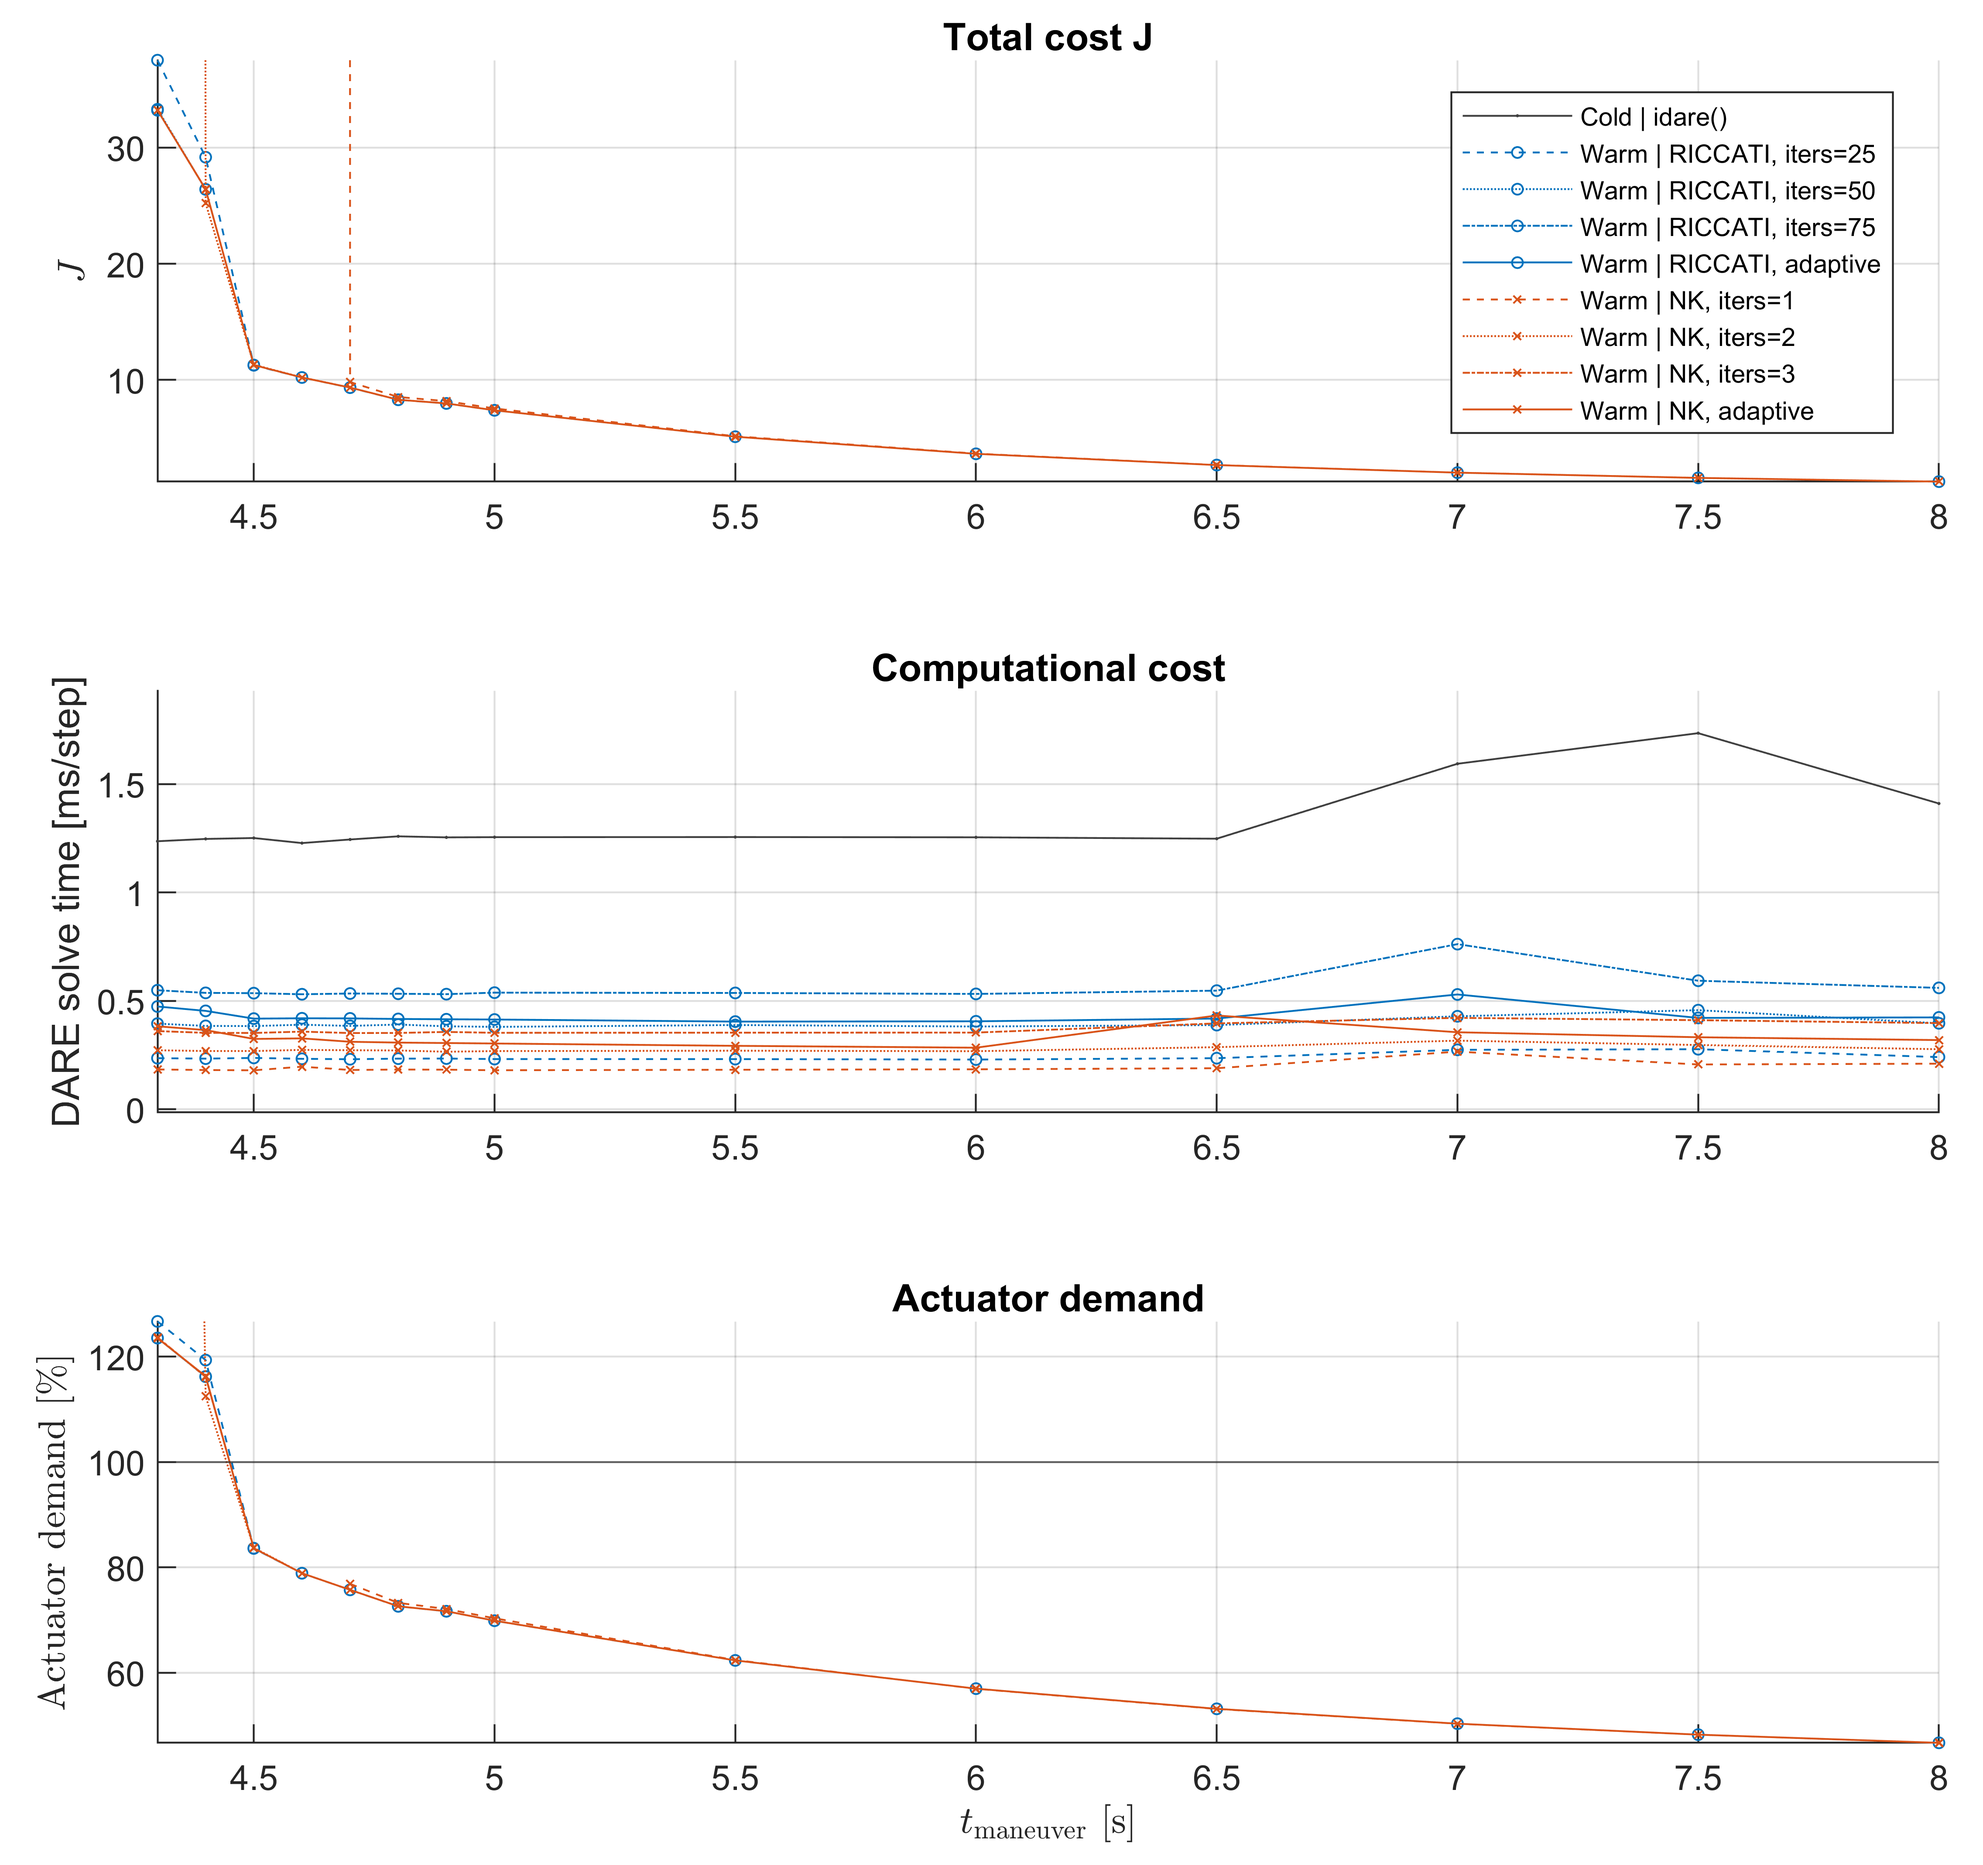
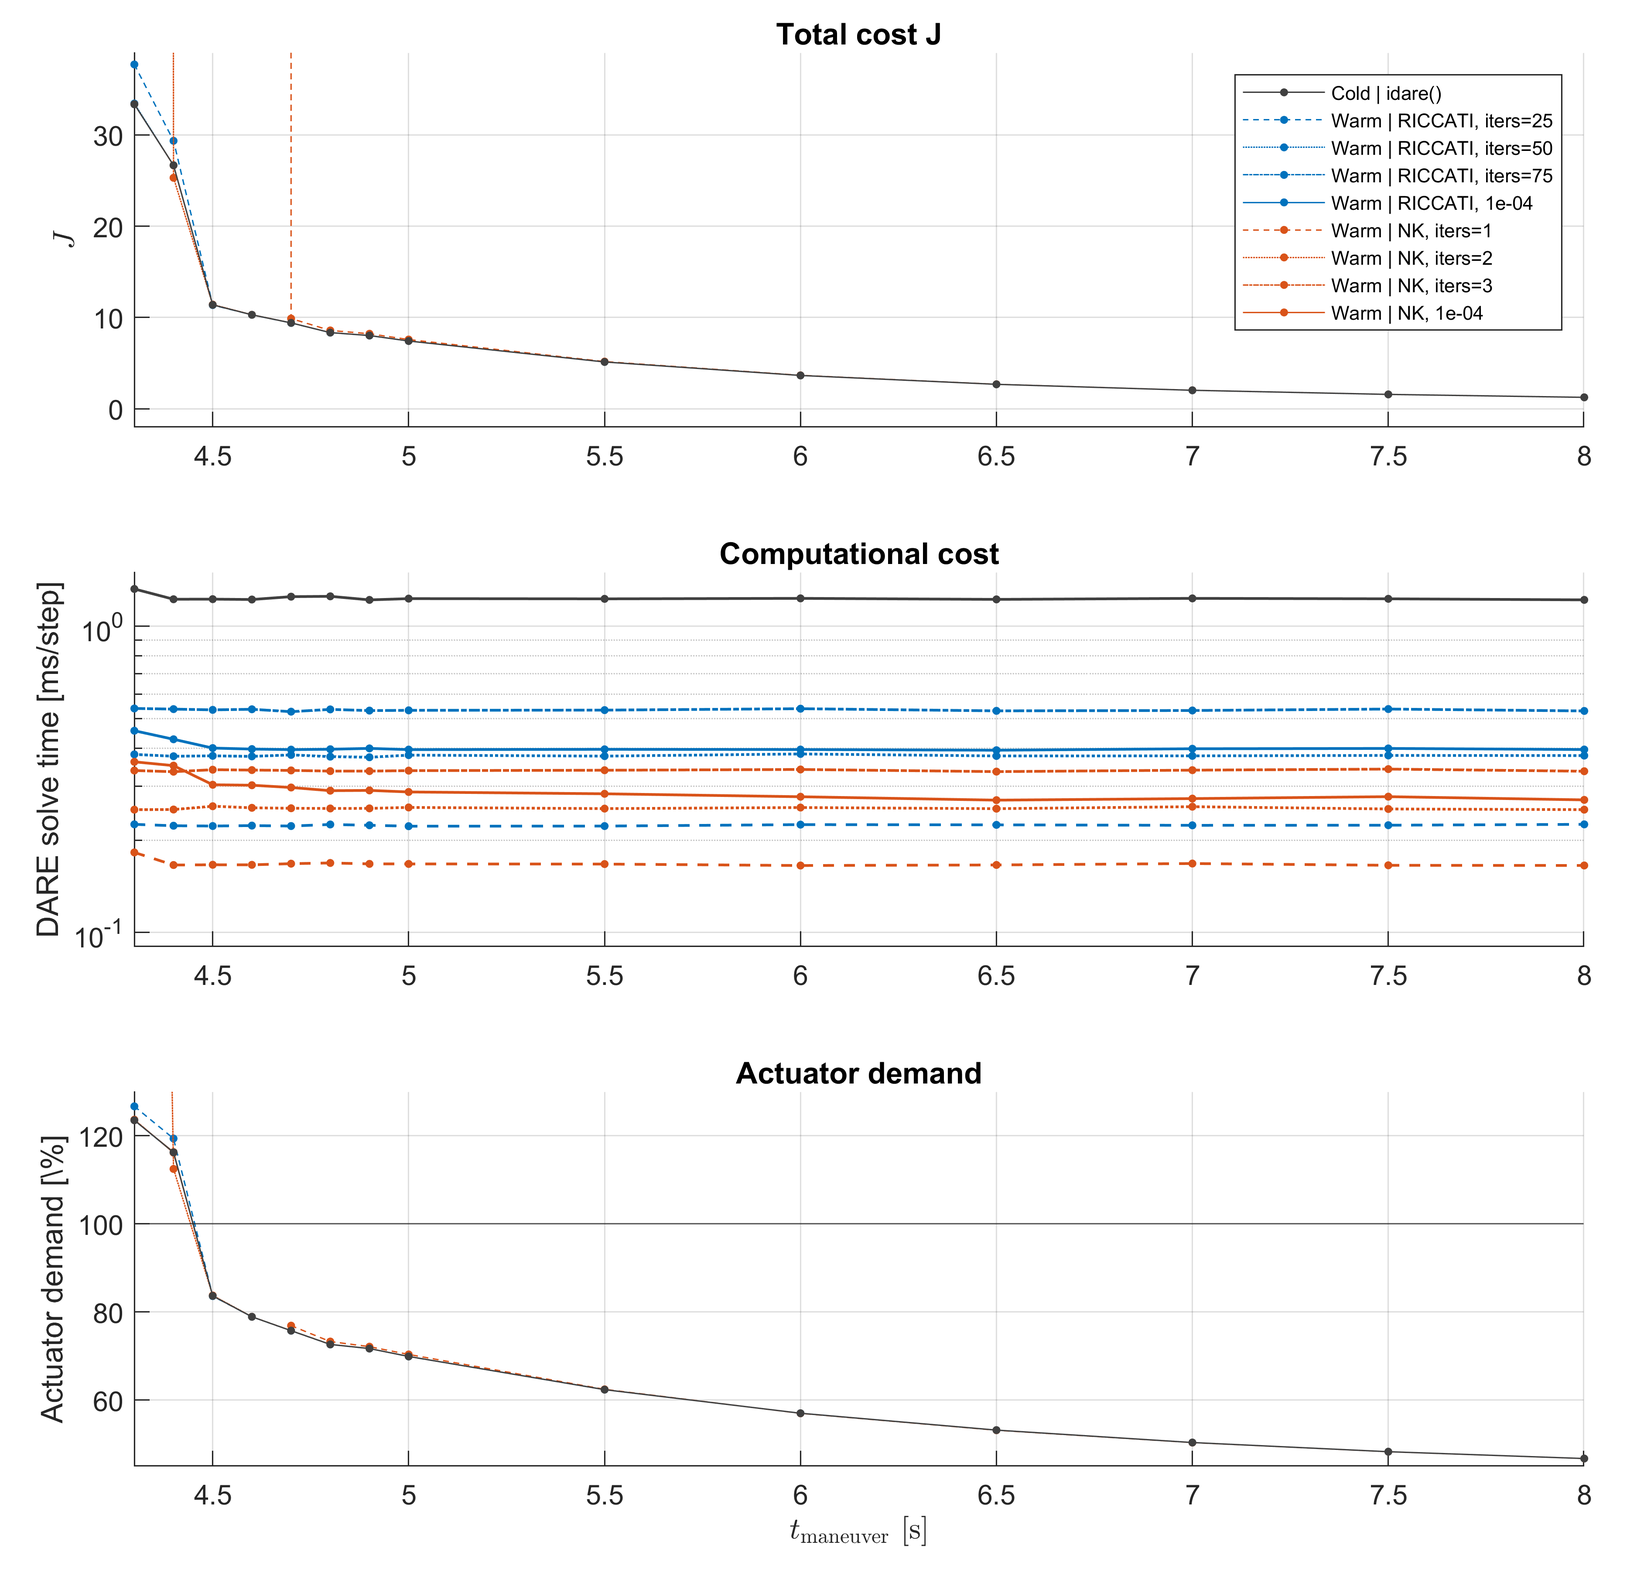
Updates to eval01, Section 2
- Rerun for less noisy timing numbers (run twice to avoid JIT compilation time, trimmean for the genuine noise spikes). All costs/other results were identical.
- Fix presentation of Figure 2
- Riccati early-break timings changed (convergence checked every 25 iters, for the most direct timing comparison - not in the original)

diff --git a/docs/eval01/README.md b/docs/eval01/README.md
@@ -7,11 +7,11 @@ This controller requires solving the DARE at each timestep – done via warm-sta
 
 ## Warm-started DARE solves: TLDR version
 
-A SDRE controller solves a discrete algebraic Riccati equation (DARE) at every control step:
+A SDRE controller solves a discrete algebraic Riccati equation (DARE)
 
 $$ P = A^{\top} P A - A^{\top} P B (R + B^{\top} P B)^{-1} B^{\top} P A + Q, \qquad K = (R + B^{\top} P B)^{-1} B^{\top} P A $$
 
-and the SDC matrices $`(A,B)`$ change with state, so the feedback gain and cost-to-go matrices must be recomputed continuously.
+at every control step: the SDC matrices $`(A,B)`$ change with state, so the feedback gain and cost-to-go matrices must be recomputed continuously.
 
 This per-step DARE is solved by warm-started Newton–Kleinman iteration; because consecutive SDC models differ only slightly along a trajectory, warm started solves via NK iteration reproduce a from-scratch `idare` solution at a fraction of the cost. Relaxing the solve tolerance (DARE residual) to $10^{-4}$ — roughly seven orders of magnitude short of a completed solve — further shaves off the compute.
 
@@ -19,7 +19,7 @@ Performance is verified against the `idare` baseline across the full flight enve
 
 NK iteration has one critical weakness however: the warm start seed $K_0$ must yield a stable closed loop with the *next* step's $(A,B)$. Under practical circumstances, not a problem; under fixed-iteration schemes with aggressive trajectories and slow loop rates, this failure mode can't be ignored. A Schur-stability check, combined with a cold solve or Riccati fallback, is necessitated here.
 
-The cold solve fallback is retained in general – though if it's actually triggering, that indicates something amiss in the configuration and is worth addressing before deployment: try the default solver options first.
+The cold solve fallback is retained in general – though if it's actually triggering, that indicates something amiss in the configuration, worth addressing before deployment: try the default solver options first.
 
 
 **Section summaries:**
@@ -157,22 +157,22 @@ This target, $\mathrm{dare\_residual}$ $\leq 10^{-4}$, is thus generally used as
 In Figure 2, the actuator demand panel (bottom) is the regime map: demand crossing 100% indicates where the stressed regime begins. In the stressed regime, $t_{man} = 4.3–4.4$ s, actuators are saturating significantly (the maneuver becomes infeasible below 4.3 s) and here the warm-started DARE solver is stressed most.
 
 - In the benign regime, every solver variant – including NK with a single iteration – matches the cold `idare` cost exactly. The warm start is good enough that almost any amount of polishing suffices.
-- In the stressed regime, the under-budgeted NK variants (1–2 iterations) detonate (that is, the cost explodes, corresponding to the hexacopter losing closed-loop stability) – the pure-vertical spikes in the cost panel. This is the hard failure mode analysed later on. NK with 3 iterations and both 'adaptive' variants (early breaking once DARE residual is below threshold) complete every run at baseline cost.
-- Solve time is where the variants actually separate: NK adaptive sits around 0.3 ms/step against ~1.25 ms for cold `idare`, with the Riccati variants in between. For these variants, the cost panel says suboptimal DARE accuracy is largely free, with the under-budgeted solvers completing the maneuver practically just as well despite early termination (often indistinguishable $\Delta J$, and surviving the full operating envelope up to infeasibility).
+- In the stressed regime, the under-budgeted NK variants (1–2 iterations) detonate (that is, the cost explodes, corresponding to the hexacopter losing closed-loop stability) – the pure-vertical spikes in the cost panel. This is the hard failure mode analysed later on. NK with 3 iterations, along with its early-break variant, completes every run at baseline cost.
+- Solve time is where the variants actually separate: early-break NK sits around 0.3 ms/step against ~1.25 ms for cold `idare`, with the Riccati variants in between. For these variants, the cost panel says suboptimal DARE accuracy is largely free, with the under-budgeted solvers completing the maneuver practically just as well despite early termination (often indistinguishable $\Delta J$, and surviving the full operating envelope up to infeasibility).
 
 See below for the numerics (per solver, median compute time).
 
 | Solver | Benign: ms/step | Stressed: ms/step | Stressed outcome | Worst $\Delta J$ |
 |---|---|---|---|---|
-| `idare` (cold) | 1.28 | 1.25 | baseline | — |
-| Riccati, iters=25 | 0.24 | 0.25 | +13% ***cost penalty*** ($t_{man}$=4.3) | +13.0% |
-| Riccati, iters=50 | 0.41 | 0.42 | completes, $\Delta J$ <0.3% | +0.3% |
-| Riccati, iters=75 | 0.55 | 0.57 | completes | — |
-| Riccati, tol 1e-4 | 0.60 | 0.73 | completes | — |
-| NK, iters=1 | 0.20 | 0.19 | ***diverges*** | – (detonates) |
-| NK, iters=2 | 0.28 | 0.27 | diverges at 4.3 s; survives 4.4+ | – (detonates) |
-| NK, iters=3 | 0.35 | 0.39 | completes | — |
-| **NK, tol 1e-4** | **0.30** | **0.40** | **completes** | **—** |
+| `idare` (cold) | 1.23 | 1.27 | baseline | — |
+| Riccati, iters=25 | 0.22 | 0.23 | +13% ***cost penalty*** ($t_{man}$=4.3) | +13.1% |
+| Riccati, iters=50 | 0.38 | 0.38 | completes, $\Delta J$ <0.3% | +0.2% |
+| Riccati, iters=75 | 0.53 | 0.54 | completes | — |
+| Riccati, tol 1e-4 | 0.40 | 0.45 | completes | — |
+| NK, iters=1 | 0.17 | 0.18 | ***diverges*** | – (detonates) |
+| NK, iters=2 | 0.25 | 0.25 | diverges at 4.3 s; survives 4.4+ | – (detonates) |
+| NK, iters=3 | 0.34 | 0.34 | completes | — |
+| **NK, tol 1e-4** | **0.28** | **0.36** | **completes** | **—** |
 
 *Key: in the rightmost column, — indicates within margins (< 0.01%).*
 
